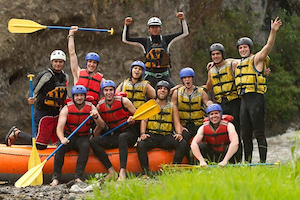
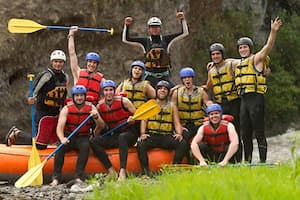
w04

diff --git a/wwr/about.html b/wwr/about.html
@@ -13,7 +13,12 @@
 <body>
 
     <header>
-        <img src="images/logo.jpeg" alt="logo">
+        <div class="logo">
+            <img src="images/logo.jpeg" alt="logo">
+            <span class="company-name">Rapids</span>
+        </div>
+
+
         <nav>
             <ul>
                 <li><a href="index.html">Home</a></li>
@@ -38,17 +43,42 @@
         </div>
         <section>
             <h2>History</h2>
-            <p>Here at Rapids, we offer the best white-water experiences on the river. Our guides know every turn and
-                make sure your
-                ride is safe while still giving you that rush you came for. Whether you want a calm float with friends
-                or a wild run
-                through tougher rapids, we’ve got you covered. We use solid, well-kept gear so you can focus on the
-                adventure, not the
-                equipment. If you’re looking to make memories and feel the river up close, Rapdis is the place to be.
+            <p>Lorem ipsum dolor sit amet, consectetur adipisicing elit. Accusamus ad praesentium explicabo, iste nihil
+                voluptas inventore, iusto voluptatum officia doloribus neque consectetur error quo assumenda earum
+                numquam quibusdam, in itaque!
+            </p>
+            <img src="images/rafting59_600.jpg" alt="paddling">
+            <p>
+                Lorem ipsum dolor sit amet consectetur adipisicing elit. Esse maxime accusamus et neque, praesentium
+                voluptas! Ex reiciendis, fugit quod expedita, tenetur impedit quidem deleniti nobis facere ea voluptatem
+                eum vero.
             </p>
         </section>
-        <section>
+        <section class="adventure-images">
             <h2>Adventure Awaits You!</h2>
+            <div class="image-grid">
+                <figure>
+                    <img src="images/rafting53_600.jpg" alt="placeholder image">
+                    <figcaption>Caption 1</figcaption>
+                </figure>
+                <figure>
+                    <img src="images/rafting19_600.jpg" alt="placeholder image">
+                    <figcaption>Caption 2</figcaption>
+                </figure>
+                <figure>
+                    <img src="images/rafting17_600.jpg" alt="placeholder image">
+                    <figcaption>Caption 3</figcaption>
+                </figure>
+                <figure>
+                    <img src="images/rafting42_600.jpg" alt="placeholder image">
+                    <figcaption>Caption 4</figcaption>
+                </figure>
+                <figure>
+                    <img src="images/rafting47_600.jpg" alt="placeholder image">
+                    <figcaption>Caption 5</figcaption>
+                </figure>
+            </div>
+
         </section>
 
     </main>
@@ -57,7 +87,7 @@
         <p>© 2025 | Rapids | Jayden Baidoo</p>
         <nav class="socialmedia">
             <a href="https://instagram.com">
-                <img src="images/instagram.png" alt="Instagram Icon">
+                <img src="images/instagram.jpg" alt="Instagram Icon">
             </a>
             <a href="https://tiktok.com">
                 <img src="images/tiktok.png" alt="Tiktok Icon">

diff --git a/wwr/styles/rafting.css b/wwr/styles/rafting.css
@@ -21,8 +21,35 @@ body {
 header, main, footer {
     width: 840px;
     height: auto;
+    margin: 0 auto;
 }
+header img {
+    margin: 0 0.25rem 0 1rem;
+    width: 120px;
+    height: auto;
+}
+header {
+    display: grid;
+    grid-template-columns: 1fr 1fr;
+    border-bottom: 1px solid #ccc;
+    align-items: center;
 
+
+}
+nav a:hover {
+    color: var(--secondary-color);
+    text-decoration: underline;
+}
+nav ul {
+    display: flex;
+    list-style-type: none;
+    align-items: center;
+    
+}
+nav li {
+    flex: 1 1 100%;
+    text-align: center;
+} 
 h1, h2 {
     font-family: var(--heading-font);
     color: var(--primary-color);
@@ -57,23 +84,40 @@ nav, p, section, article {
     padding: 9px;
 }
 
+section {
+    display: grid;
+    grid-template-columns: 1fr 1fr 1fr;
+    align-items: center;
+}
+.logo {
+    display: flex;
+    align-items: center;
+    gap: 10px;
+}
 
+.company-name {
+    font-family: var(--heading-font);
+    font-size: 1.6rem;
+    color: var(--primary-color);
+    
+}
+section h2 {
+    grid-column: 1/4;
+}
 .socialmedia a {
     text-decoration: none;
     
 }
 
 .hero article {
-    top: 260px;
+    top: 300px;
     position: absolute;
     background-color: var(--secondary-color);
 }
-article img{
-    float: right;
 
-}
 .hero {
     position: relative;
+    padding-top: 30px;
 }
 .hero article img {
     float: right;
@@ -87,15 +131,37 @@ article img{
   }
 
 footer {
+    display: flex;
+    justify-content: space-between;
     color: var(--accent2-color);
     border-top: 2px solid rgba(0, 0, 0, 0.2);
     padding-top: 10px;
 }
+footer p {
+    flex: 1;
+    text-align: center;
+}
 footer .socialmedia {
-    display: flex;
     gap: 10px;
 }
 footer .socialmedia img {
     width: 30px;
+    height: auto;
+}
+
+.adventure-images {
+    margin: 16px;
+    
+}
+.image-grid {
+    display: grid;
+    grid-template-columns: repeat(5, 1fr);
+    gap: 70px;
+    padding-top: 1.5rem;
+    align-items: center;
+}
+
+.image-grid img {
+    width: 100px;
     height: auto;
 }
